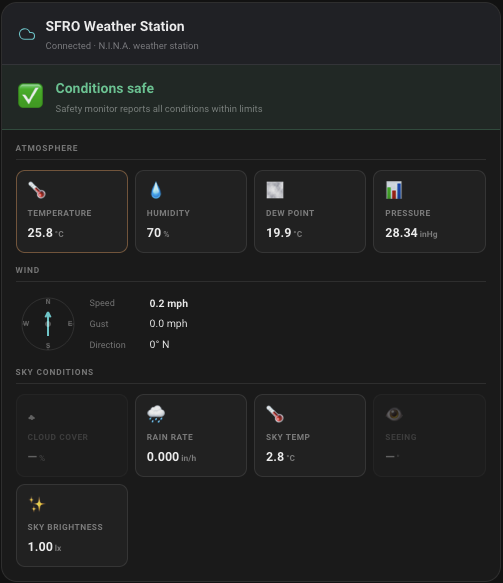
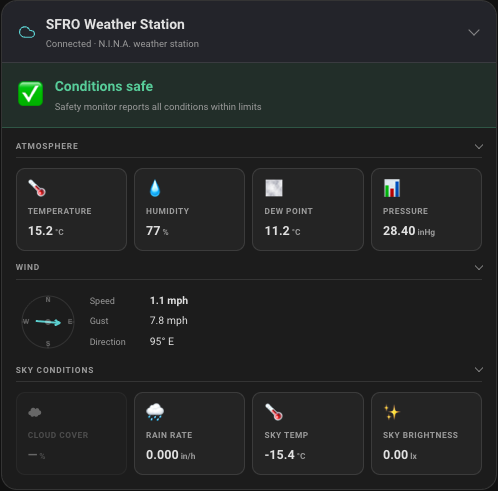
docs: current dashboard and card samples from a live rig
Replaces the README's headline and the seven card samples with captures
of the cards imaging Sh2 132, and adds a site camera sample to the gallery.

diff --git a/README.md b/README.md
@@ -16,7 +16,7 @@ It provides:
 - eight dashboard cards
 - six automation blueprints
 
-![Six of the dashboard cards on a live rig: the observatory and autofocus cards, the weather and sky map cards, and the latest image and frame statistics cards](https://raw.githubusercontent.com/dgivens/homeassistant-nina-astrophotography/main/docs/images/dashboard.png)
+![The dashboard cards on a live rig imaging Sh2 132: the observatory card above a pier camera, the weather, autofocus and sky map cards, and the live stack, latest image and frame statistics cards](https://raw.githubusercontent.com/dgivens/homeassistant-nina-astrophotography/main/docs/images/dashboard.png)
 
 This is a maintained fork of
 [C3X0Astro/homeassistant-nina-astrophotography](https://github.com/C3X0Astro/homeassistant-nina-astrophotography),
@@ -212,8 +212,8 @@ type: custom:nina-observatory-card
 | <img src="https://raw.githubusercontent.com/dgivens/homeassistant-nina-astrophotography/main/docs/images/cards/observatory.png" alt="Observatory card" width="260"> | <img src="https://raw.githubusercontent.com/dgivens/homeassistant-nina-astrophotography/main/docs/images/cards/image-panel.png" alt="Latest image card" width="260"> | <img src="https://raw.githubusercontent.com/dgivens/homeassistant-nina-astrophotography/main/docs/images/cards/sky-map.png" alt="Sky map card" width="260"> |
 | **Weather** | **Autofocus** | **Frame statistics** |
 | <img src="https://raw.githubusercontent.com/dgivens/homeassistant-nina-astrophotography/main/docs/images/cards/weather.png" alt="Weather card" width="260"> | <img src="https://raw.githubusercontent.com/dgivens/homeassistant-nina-astrophotography/main/docs/images/cards/autofocus.png" alt="Autofocus card" width="260"> | <img src="https://raw.githubusercontent.com/dgivens/homeassistant-nina-astrophotography/main/docs/images/cards/frame-stats.png" alt="Frame statistics card" width="260"> |
-| **Live stack** | | |
-| <img src="https://raw.githubusercontent.com/dgivens/homeassistant-nina-astrophotography/main/docs/images/cards/livestack.png" alt="Live stack card: Sh2 132's R stack at 7 frames, with chips for Latest, G 13 and R 7" width="260"> | | |
+| **Live stack** | **Site camera** | |
+| <img src="https://raw.githubusercontent.com/dgivens/homeassistant-nina-astrophotography/main/docs/images/cards/livestack.png" alt="Live stack card: Sh2 132's R stack at 14 frames, with chips for Latest, G 4 and R 14" width="260"> | <img src="https://raw.githubusercontent.com/dgivens/homeassistant-nina-astrophotography/main/docs/images/cards/site-camera.png" alt="Site camera card: a pier camera's all-sky view over the telescope, with an Open link" width="260"> | |
 
 With a dome, the observatory card adds a Dome chip and Open or Close Dome:
 

diff --git a/CHANGELOG.md b/CHANGELOG.md
@@ -15,6 +15,8 @@ All notable changes to the N.I.N.A. Astrophotography Home Assistant integration 
 
 ### Changed
 
+- **The README's dashboard and card samples are current**, taken from a live
+  rig, and the gallery gains the site camera card.
 - **The card harness logs each image a card asks for** (#264), and `Rig.add`
   gives a scenario a row from another integration.
 - **The test VM's stable channel installs Advanced API 2.2.15.3** (#276), and the
